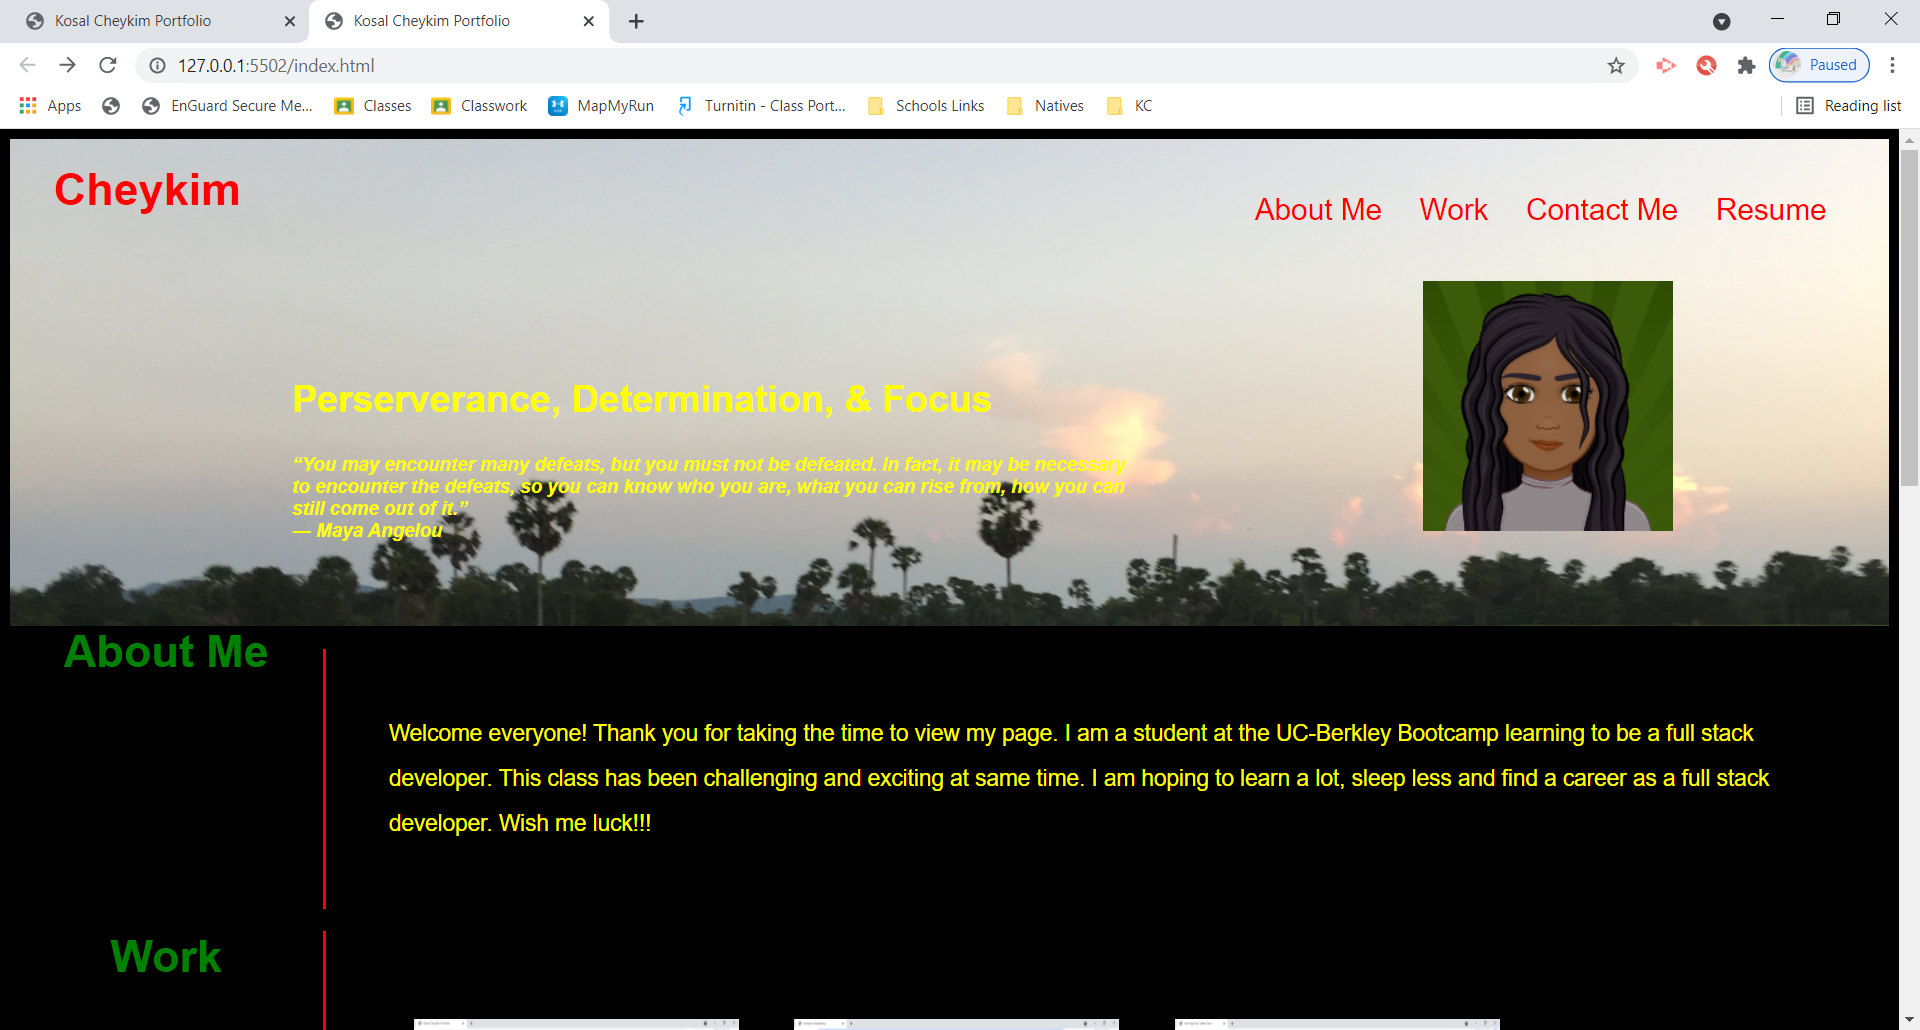
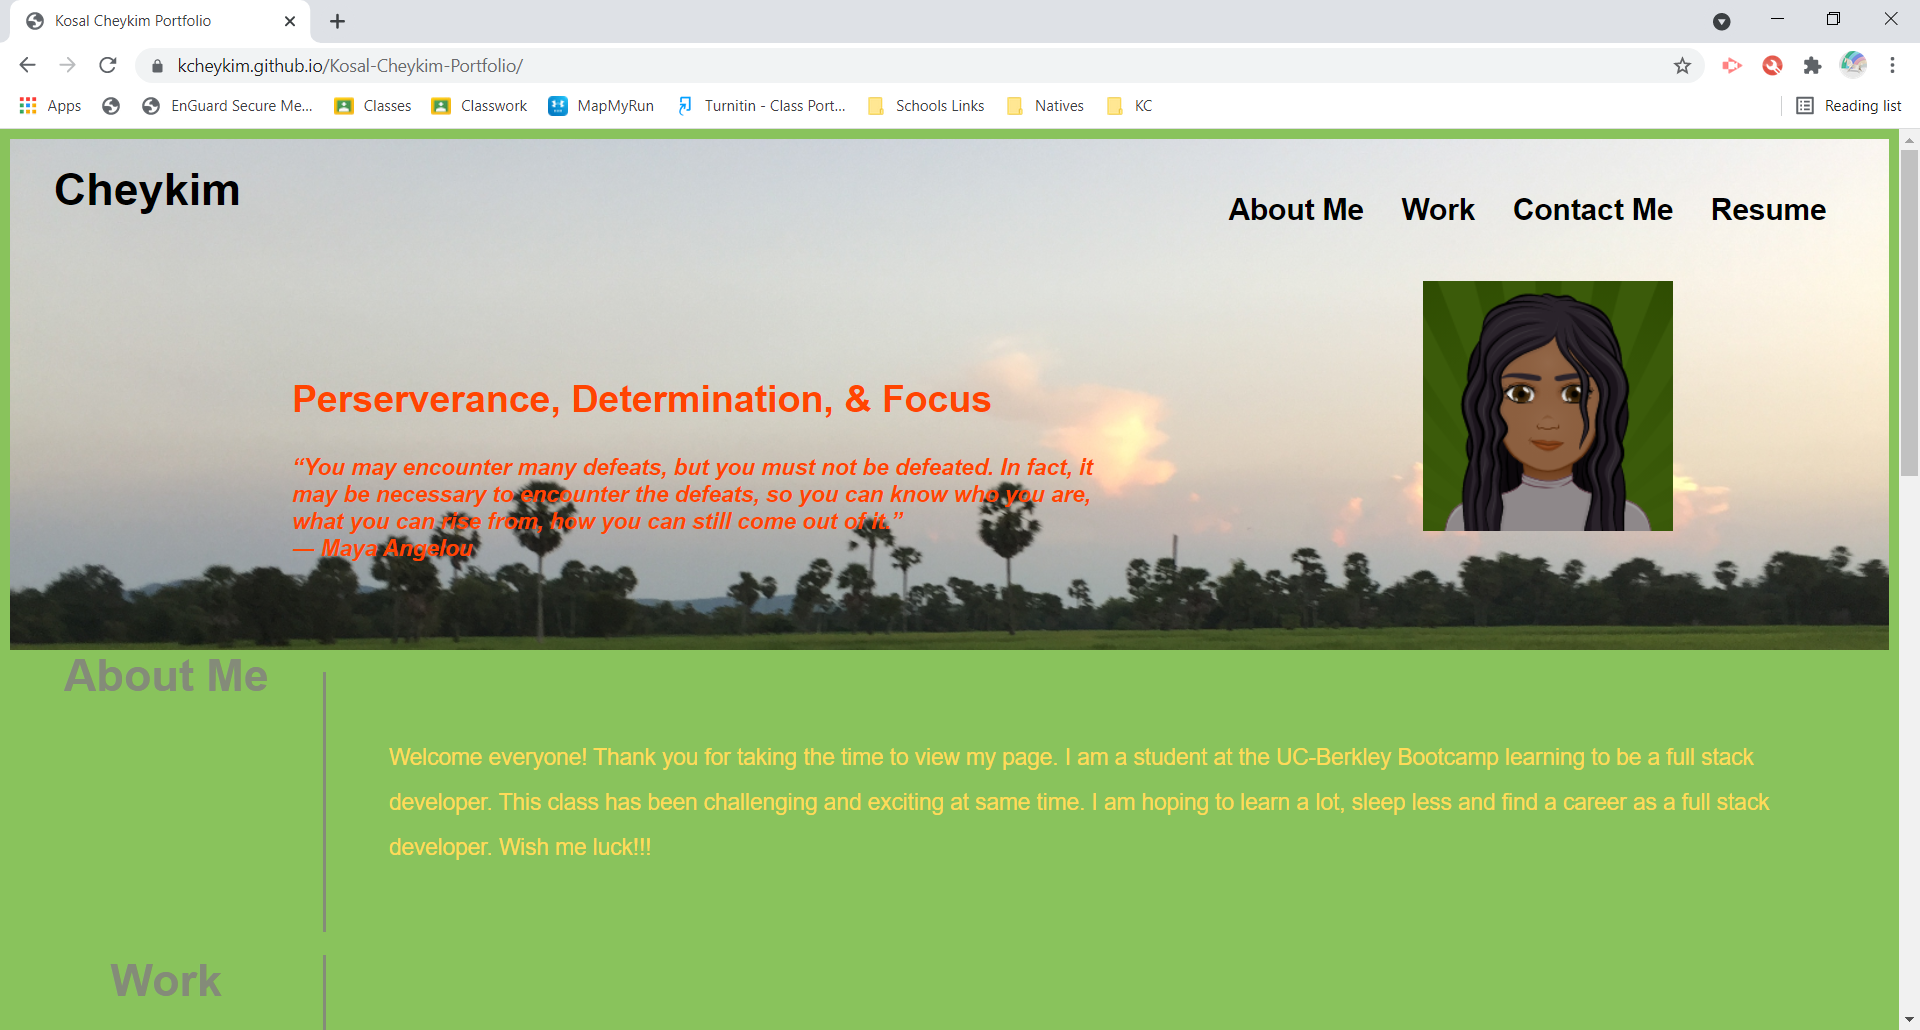
updating README.md and more css styles

diff --git a/assets/css/style.css b/assets/css/style.css
@@ -151,9 +151,10 @@ header nav ul li a {
 }
 
 .photo img{
-    padding: 20px;
     width: 300px;
     height: 225px;
+    border: 8px solid var(--slate);
+    border-radius: 15px;
 }
 
   .photo-display h4 {

diff --git a/README.md b/README.md
@@ -1,6 +1,6 @@
 # Kosal Cheykim Portfolio
 
-The purpose of this project is to showcase the skills and talents of my professional portfolio as a developer including my name, a recent photo of myself, links to my work or skills, and a way to contact me. The links on this page will correspond to and navigation of the location on the page. Under the work or skill options, the images of application will appar larger in size, and the layout will adapt to the viewport of different devices. This project will allow employers who are seeking employees in my field of expertise to be able to view my accomplished work and the process behind them.
+The purpose of this challenge is to showcase my portfolio as a full stack developer. This portfolio will have my name, an avatar of myself (will update with a photo later), a showcase of my work so far, and a way to contact me. The first application will became larger when the cursor hover over it and it will launch my the first project, my portfolio page. Along with the first application, there are images that will link to module projects, future challenge, and previous challenge. The page will follow the readability and accessibility protocol using html and css semantic standards. The website can be view across mobile devices as well and standard computer screen.
 
 ## Built With
 
@@ -8,8 +8,14 @@ The purpose of this project is to showcase the skills and talents of my professi
 * Advanced CSS styles
 
 ## HTML
-* All employer to sample potential employee previous work in a professional layout including use of good semantic HTML tags, structure, and attributes. This page will be made readabilties and accessibilities. The HTML layout will adapt the different user's viewport depending of the device use.
+* A website that showcase my portfolio as an upcoming full stack develope using good semantic HTML tags, structure, and attributes. This page will follow the readabilties and accessibilities standarads. The HTML layout will adapt to different user's viewport depending of the device use.
 
 ## Advanced CSS Styles
 
 * Showcasing flexbox, media queries, and advanced CSS styles
+
+## Website
+
+
+## Image of Website
+![Kosal-Cheykim-Portfolio](./assets/images/KC_portfolio.png?raw=true)
